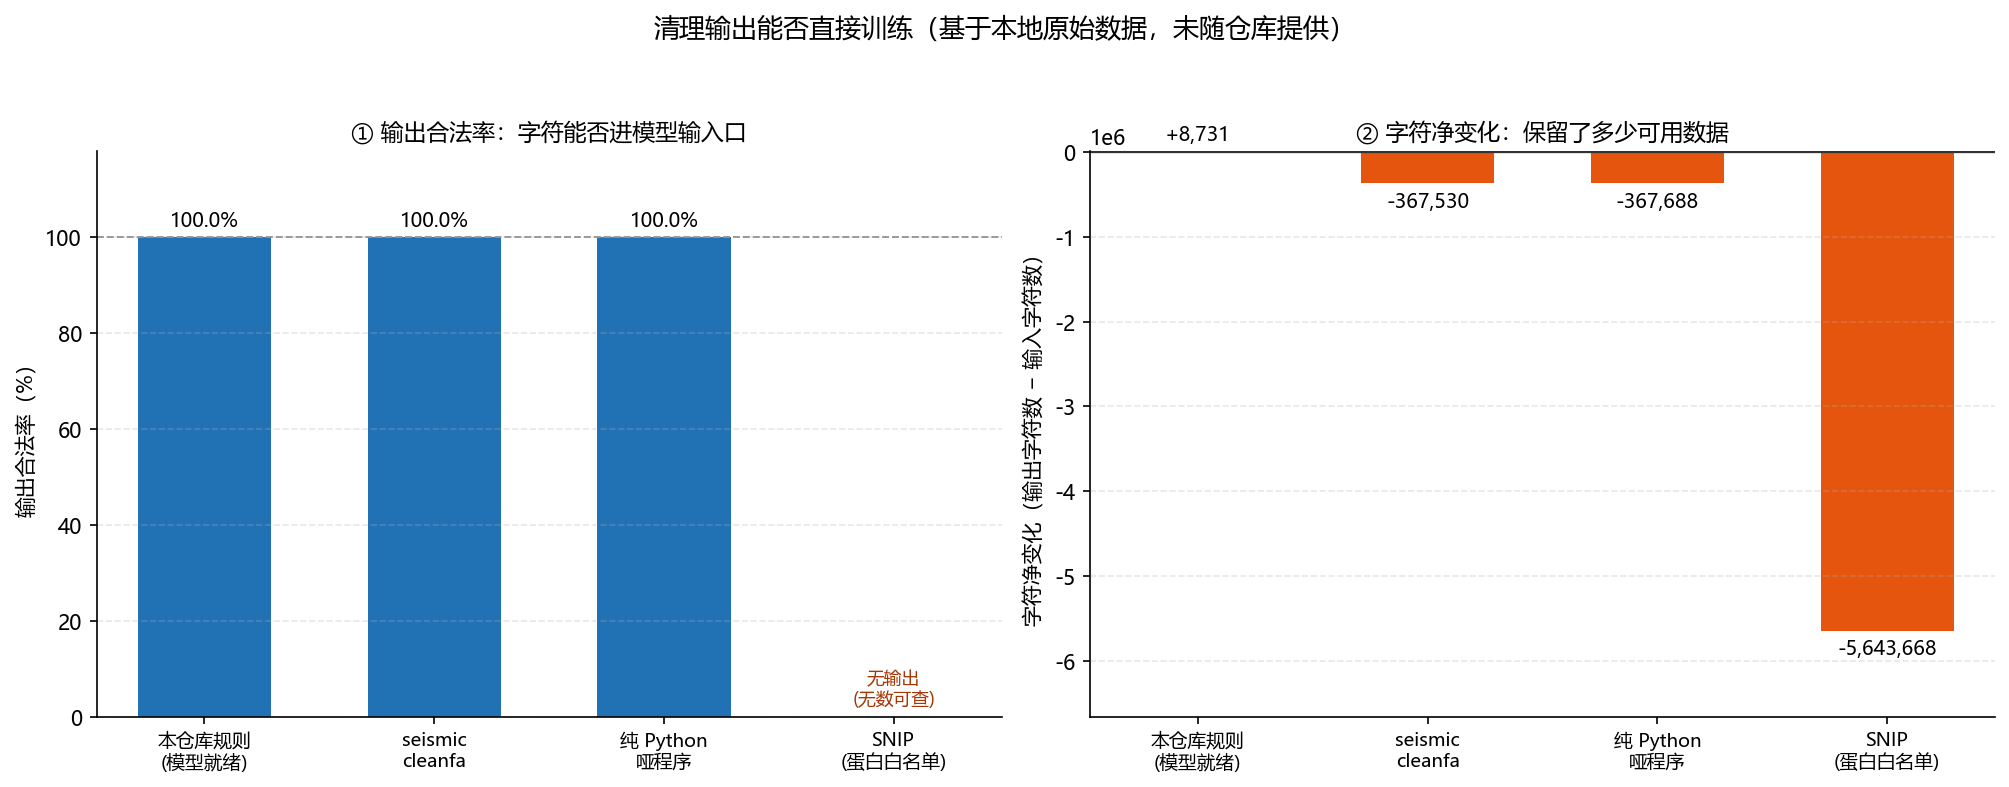
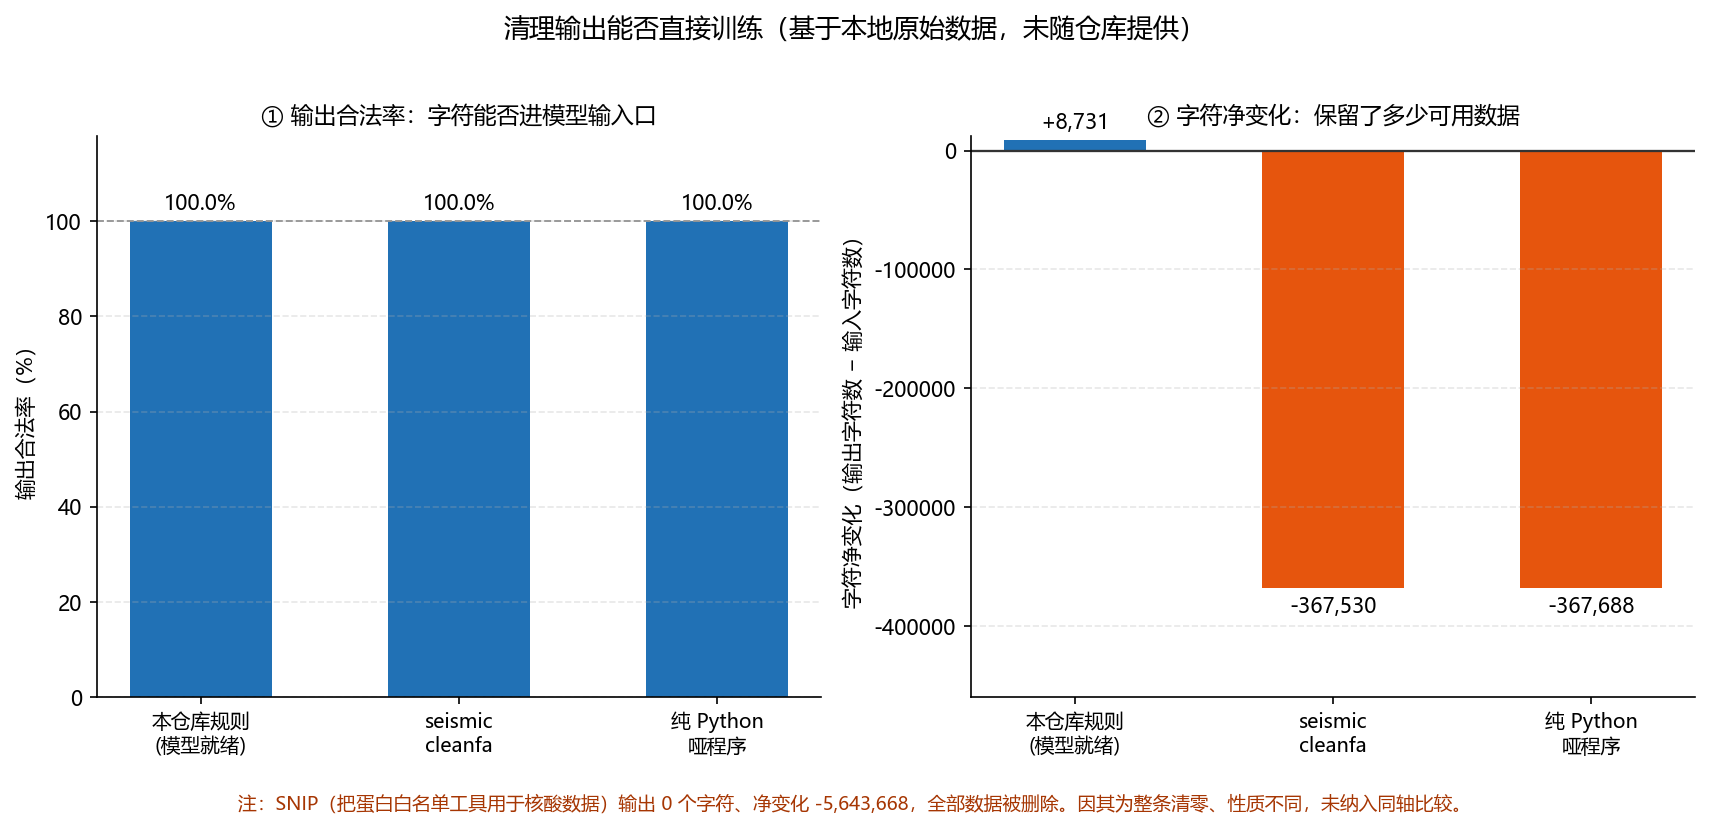
对比图只画三家正常清洗工具，SNIP 移到图下脚注
按上轮讨论的方案 2：SNIP 输出为『整条清零』，属性质不同的结果，
不是同一量纲上的极端值；画进同一坐标会把另外三根柱子压成不可见，
+8,731 那根尤其看不见（仅为 SNIP 的 0.15%）。

现在右面板只比 本仓库/cleanfa/哑程序 三家，+8,731 可见；
SNIP 的 0 字符输出与 -5,643,668 净变化改为图下脚注说明。
README 表格同步：SNIP 行不再用『—』，明确写出输出 0 个字符、净变化 -5,643,668，
并说明为何未纳入图中比较。

diff --git a/benchmark_model_ready.py b/benchmark_model_ready.py
@@ -193,9 +193,15 @@ def main(argv=None):
 def _draw(results, path, label):
     """画两个独立面板，而不是双 Y 轴柱状图。
 
-    双轴的问题（本图早期版本的真实缺陷）：左轴 0 在底部、右轴范围 0..-5.6e6 时 0 在顶部，
-    两组柱子视觉基线不一致，浅色柱看起来"飘"在轴上；且量级差 3 个数量级时小柱被压成零。
-    拆成两个面板后，每个面板只有一种量纲，注释可以严格贴在各自柱子上。
+    两个刻意的决定：
+
+    1. 拆成两个面板而非双轴。双轴的问题：左轴 0 在底部、右轴范围 0..-5.6e6 时 0 在顶部，
+       两组柱子视觉基线不一致，浅色柱看起来"飘"在轴上；量级差 3 个数量级时小柱被压成零。
+       拆开后每个面板只有一种量纲，注释可严格贴在各自柱子上。
+
+    2. 图里只比较"正常清洗工具"，SNIP 用脚注说明。SNIP 是把蛋白白名单工具用在核酸数据上，
+       结果是整条清零——这是**性质不同**的结果，不是同一量纲上的极端值。
+       混在一张图里，它的 -5.6e6 会把另外三根柱子压成不可见（本图早期版本的真实问题）。
     """
     import matplotlib
     matplotlib.use("Agg")
@@ -205,63 +211,71 @@ def _draw(results, path, label):
     matplotlib.rcParams["font.sans-serif"] = ["Microsoft YaHei", "SimHei", "DejaVu Sans"]
     matplotlib.rcParams["axes.unicode_minus"] = False
 
-    names = ["本仓库规则\n(模型就绪)", "seismic\ncleanfa", "纯 Python\n哑程序", "SNIP\n(蛋白白名单)"]
-    keys = ["本仓库规则（模型就绪）", "seismic cleanfa", "纯 Python 哑程序", "SNIP（蛋白白名单）"]
-    valid = [results[k]["valid_rate_pct"] for k in keys]
-    net = [results[k]["net_chars"] for k in keys]
+    snip_key = "SNIP（蛋白白名单）"
+    chart_keys = [k for k in ("本仓库规则（模型就绪）", "seismic cleanfa", "纯 Python 哑程序")
+                  if k in results]
+    chart_names = {
+        "本仓库规则（模型就绪）": "本仓库规则\n(模型就绪)",
+        "seismic cleanfa": "seismic\ncleanfa",
+        "纯 Python 哑程序": "纯 Python\n哑程序",
+    }
+    names = [chart_names[k] for k in chart_keys]
+    valid = [results[k]["valid_rate_pct"] for k in chart_keys]
+    net = [results[k]["net_chars"] for k in chart_keys]
+    snip = results.get(snip_key)
 
-    x = np.arange(len(names))
-    fig, (ax1, ax2) = plt.subplots(1, 2, figsize=(13.5, 5.2), dpi=150)
+    x = np.arange(len(chart_keys))
+    fig, (ax1, ax2) = plt.subplots(1, 2, figsize=(11.5, 5.0), dpi=150)
 
     # ---------- 面板①：输出合法率 ----------
-    bars1 = ax1.bar(x, [0 if v is None else v for v in valid], 0.58, color="#2171b5")
+    bars1 = ax1.bar(x, [0 if v is None else v for v in valid], 0.55, color="#2171b5")
     for bar, v in zip(bars1, valid):
         cx = bar.get_x() + bar.get_width() / 2   # 严格取柱子中心
-        if v is None:
-            ax1.annotate("无输出\n(无数可查)", (cx, 0), xytext=(0, 4),
-                         textcoords="offset points", ha="center", va="bottom",
-                         fontsize=8.5, color="#a63603")
-        else:
-            ax1.annotate(f"{v:.1f}%", (cx, v), xytext=(0, 3),
-                         textcoords="offset points", ha="center", va="bottom",
-                         fontsize=9.5)
+        ax1.annotate("—" if v is None else f"{v:.1f}%",
+                     (cx, 0 if v is None else v), xytext=(0, 3),
+                     textcoords="offset points", ha="center", va="bottom", fontsize=10)
     ax1.axhline(100, color="#969696", linestyle="--", linewidth=0.9)
     ax1.set_ylim(0, 118)
     ax1.set_ylabel("输出合法率（%）")
     ax1.set_title("① 输出合法率：字符能否进模型输入口", fontsize=11)
     ax1.set_xticks(x)
-    ax1.set_xticklabels(names, fontsize=9)
+    ax1.set_xticklabels(names, fontsize=9.5)
     ax1.grid(axis="y", linestyle="--", alpha=0.3)
     ax1.spines["top"].set_visible(False)
     ax1.spines["right"].set_visible(False)
 
     # ---------- 面板②：字符净变化 ----------
     colors = ["#2171b5" if v >= 0 else "#e6550d" for v in net]
-    bars2 = ax2.bar(x, net, 0.58, color=colors)
+    bars2 = ax2.bar(x, net, 0.55, color=colors)
     ax2.axhline(0, color="#333333", linewidth=1.1)
     for bar, v in zip(bars2, net):
         cx = bar.get_x() + bar.get_width() / 2
         if v >= 0:
             ax2.annotate(f"{v:+,}", (cx, v), xytext=(0, 3), textcoords="offset points",
-                         ha="center", va="bottom", fontsize=9.5)
+                         ha="center", va="bottom", fontsize=10)
         else:
-            # 负柱向下延伸，标签放在柱底之下，同样居中
+            # 负柱向下延伸，标签置于柱底之下，同样居中
             ax2.annotate(f"{v:+,}", (cx, v), xytext=(0, -4), textcoords="offset points",
-                         ha="center", va="top", fontsize=9.5)
+                         ha="center", va="top", fontsize=10)
+    hi, lo = max(net + [0]), min(net + [0])
+    ax2.set_ylim(lo * 1.25, hi * 1.45 + 1)
     ax2.set_ylabel("字符净变化（输出字符数 − 输入字符数）")
     ax2.set_title("② 字符净变化：保留了多少可用数据", fontsize=11)
     ax2.set_xticks(x)
-    ax2.set_xticklabels(names, fontsize=9)
+    ax2.set_xticklabels(names, fontsize=9.5)
     ax2.grid(axis="y", linestyle="--", alpha=0.3)
     ax2.spines["top"].set_visible(False)
     ax2.spines["right"].set_visible(False)
 
-    # 给最下方的负柱留出标注空间
-    lo = min(net + [0])
-    ax2.set_ylim(lo * 1.18 if lo < 0 else -1, max(net + [0]) * 1.25 + 1)
-
-    fig.suptitle(f"清理输出能否直接训练（基于{label}，未随仓库提供）", fontsize=12.5, y=1.0)
-    fig.tight_layout(rect=(0, 0, 1, 0.96))
+    fig.suptitle(f"清理输出能否直接训练（基于{label}，未随仓库提供）", fontsize=12.5, y=1.02)
+    if snip:
+        fig.text(
+            0.5, -0.04,
+            f"注：SNIP（把蛋白白名单工具用于核酸数据）输出 0 个字符、净变化 "
+            f"{snip['net_chars']:+,}，全部数据被删除。因其为整条清零、性质不同，"
+            f"未纳入同轴比较。",
+            ha="center", fontsize=9, color="#a63603", wrap=True)
+    fig.tight_layout()
     os.makedirs(os.path.dirname(os.path.abspath(path)), exist_ok=True)
     plt.savefig(path, bbox_inches="tight")
     plt.close(fig)

diff --git a/README.md b/README.md
@@ -358,9 +358,13 @@ python benchmark_model_ready.py <raw.csv> --seq-col Sequence --chart benchmark/m
 | 本项目规则 | 100.00% | 5,652,399 | **+8,731** | 全部 |
 | seismic cleanfa | 100.00% | 5,276,138 | −367,530 | 全部 |
 | 朴素删除脚本 | 100.00% | 5,275,980 | −367,688 | 全部 |
-| SNIP（蛋白白名单） | — | — | — | **0** |
+| SNIP（蛋白白名单） | — | 0 | −5,643,668 | **0** |
+
+**图里只画了前三家**：SNIP 的输出是"整条清零"，属性质不同的结果，不是同一量纲上的极端值；
+把它画进同一坐标会把另外三根柱子压成不可见。它的结果由上表与图下脚注说明。
 
 - **合法率**：输出字符 ∈ 目标字母表 的比例。<100% 就意味着有字符喂不进模型。
+  输出 0 个字符时合法率无从计算，记作「—」。
 - **净变化**：输出字符数 − 输入字符数。**这里用绝对字符数而不是百分比**，
   因为比值会超过 100%，容易被误读成"注水"。
   `>0` 的含义是：**输入本身已经被上游删掉了一部分碱基**（占位符就是那些缺失的痕迹），
